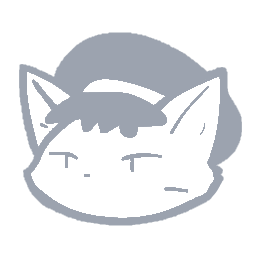
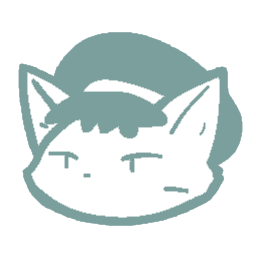
Сохранение настроек и доработки юзабилити

Changed region(s): [[0.0625, 0.125, 0.9688, 0.9062], [0.4688, 0.5938, 0.6562, 0.6875], [0.3125, 0.6562, 0.375, 0.7188]]

diff --git a/src/ru/ui/console.html b/src/ru/ui/console.html
@@ -17,7 +17,7 @@
 
   <div class="flex md:hidden bg-white p-4 shadow-md items-center justify-between">
     <h1 class="text-xl font-bold">Melezh</h1>
-    <button @click="toggleSidebar()" class="text-gray-600">
+    <button @click="toggleSidebar()" class="text-gray-700">
       ☰
     </button>
   </div>
@@ -27,11 +27,13 @@
       class="md:flex flex-col w-64 bg-white shadow-md p-4 space-y-4 transition-all z-10 fixed md:static inset-y-0 left-0 transform md:translate-x-0 transition-transform duration-200 ease-in-out"
       :class="{'translate-x-0': isSidebarOpen, '-translate-x-full': !isSidebarOpen && isMobile()}">
 
+      <!-- Заголовок -->
       <h1 class="flex items-center justify-between text-lg font-semibold border-b pb-2 w-full">
-        <span style="font-size: 25px;">Melezh</span>
+        <span style="font-size: 25px;" >Melezh</span>
         <img src="/img/ico_g.png" alt="Логотип" class="h-8 w-auto">
       </h1>
 
+      <!-- Основная навигация -->
       <nav class="space-y-2">
         <a href="#dashboard" @click.prevent="setActiveTab('dashboard')"
           :class="{'bg-green-100 text-white-700': activeTab === 'dashboard'}"
@@ -50,8 +52,11 @@
         </a>
       </nav>
 
-      <!-- Sidebar Footer -->
-      <div class="mt-auto pt-6 border-t space-y-2">
+      <!-- Гибкий промежуток, который займет все доступное пространство -->
+      <div class="flex-grow"></div>
+
+      <!-- Кнопка выхода -->
+      <div class="pt-6 border-t space-y-2">
         <button @click="logout()" type="button"
           class="flex items-center justify-between w-full bg-gray-100 hover:bg-gray-200 px-3 py-2 rounded transition">
           <span>Выход</span>
@@ -60,6 +65,38 @@
               d="M17 16l4-4m0 0l-4-4m4 4H7m6 4v1a3 3 0 01-3 3H6a3 3 0 01-3-3V7a3 3 0 013-3h4a3 3 0 013 3v1" />
           </svg>
         </button>
+      </div>
+
+      <!-- Ссылки на GitHub и документацию (теперь всегда внизу) -->
+      <div class="pt-4 flex justify-center space-x-2 border-t">
+        <!-- GitHub -->
+        <a href="https://github.com/bayselonarrend/Melezh" target="_blank" title="Посетить репозиторий на GitHub"
+          class="group flex flex-col items-center justify-center p-3 rounded-md hover:bg-gray-100 transition relative">
+          <svg xmlns="http://www.w3.org/2000/svg" fill="currentColor" viewBox="0 0 24 24"
+            class="w-6 h-6 text-gray-500 group-hover:text-gray-700 transition">
+            <path fill-rule="evenodd"
+              d="M12 2C6.477 2 2 6.484 2 12.017c0 4.425 2.865 8.18 6.839 9.504.5.092.682-.217.682-.483 0-.237-.008-.868-.013-1.703-2.782.605-3.369-1.343-3.369-1.343-.454-1.158-1.11-1.466-1.11-1.466-.908-.62.069-.608.069-.608 1.003.07 1.531 1.032 1.531 1.032.892 1.53 2.341 1.088 2.91.832.092-.647.35-1.088.636-1.338-2.22-.253-4.555-1.113-4.555-4.951 0-1.093.39-1.988 1.029-2.688-.103-.253-.446-1.272.098-2.65 0 0 .84-.27 2.75 1.026A9.564 9.564 0 0112 6.844c.85.004 1.705.115 2.504.337 1.909-1.296 2.747-1.027 2.747-1.027.546 1.379.202 2.398.1 2.651.64.7 1.028 1.595 1.028 2.688 0 3.848-2.339 4.695-4.566 4.943.359.309.678.92.678 1.855 0 1.338-.012 2.419-.012 2.747 0 .268.18.58.688.482A10.019 10.019 0 0022 12.017C22 6.484 17.522 2 12 2z"
+              clip-rule="evenodd" />
+          </svg>
+          <span
+            class="absolute bottom-full mb-1 hidden group-hover:block bg-black text-white text-xs py-1 px-2 rounded whitespace-nowrap">
+            GitHub
+          </span>
+        </a>
+
+        <!-- Документация -->
+        <a href="https://openintegrations.dev" target="_blank" title="Читать документацию"
+          class="group flex flex-col items-center justify-center p-3 rounded-md hover:bg-gray-100 transition relative">
+          <svg xmlns="http://www.w3.org/2000/svg" fill="none" viewBox="0 0 24 24" stroke-width="1.5"
+            stroke="currentColor" class="w-6 h-6 text-gray-500 group-hover:text-gray-700 transition">
+            <path stroke-linecap="round" stroke-linejoin="round"
+              d="M12 6.042A8.967 8.967 0 0 0 6 3.75c-1.052 0-2.062.18-3 .512v14.25A8.987 8.987 0 0 1 6 18c2.305 0 4.408.867 6 2.292m0-14.25a8.966 8.966 0 0 1 6-2.292c1.052 0 2.062.18 3 .512v14.25A8.987 8.987 0 0 0 18 18a8.967 8.967 0 0 0-6 2.292m0-14.25v14.25" />
+          </svg>
+          <span
+            class="absolute bottom-full mb-1 hidden group-hover:block bg-black text-white text-xs py-1 px-2 rounded">
+            Документация
+          </span>
+        </a>
       </div>
     </aside>
 
@@ -94,7 +131,7 @@
         style="word-break: break-word;">
 
         <!-- Контент -->
-        <div class="px-3 py-2 text-sm text-gray-700 whitespace-normal break-words flex flex-col">
+        <div class="px-3 py-2 text-sm text-gray-700 whitespace-normal break-words flex flex-col mr-5">
           <span x-text="message.text"></span>
           <span class="text-xs text-gray-400 mt-1" x-text="message.time"></span>
         </div>

diff --git a/src/ru/ui/login.html b/src/ru/ui/login.html
@@ -1,55 +1,68 @@
 <!DOCTYPE html>
-<html lang="ru" x-data="{ password: '', error: false }">
+<html lang="ru" x-data="app()">
 
 <head>
   <meta charset="UTF-8" />
   <meta name="viewport" content="width=device-width, initial-scale=1.0" />
-  <title>Вход | Melezh </title>
+  <title>Вход | Melezh</title>
   <link rel="stylesheet" href="/css/custom-tailwind.css" />
   <script src="/js/tailwind.js"></script>
+  <script type="module" src="/js/error-fetch.js"></script>
+  <script type="module" src="/js/components/app.js"></script>
+  <script type="module" src="/js/components/views-registry.js"></script>
+  <script type="module" src="/js/components/message-toast.js"></script>
   <script type="module" src="/js/alpine.js"></script>
-
 </head>
 
-<body class="bg-gray-100 flex items-center justify-center min-h-screen" x-init="
-  () => {
-    const urlParams = new URLSearchParams(window.location.search);
-    error = urlParams.has('error');
-  }
-">
-
+<body class="bg-gray-100 flex items-center justify-center min-h-screen">
   <div class="w-full max-w-md bg-white shadow-lg rounded-lg p-8 space-y-6">
-
     <!-- Логотип + заголовок -->
     <div class="flex flex-col items-center text-center space-y-4">
-      <img src="/img/cover.png" alt="Логотип" class="h-20 w-auto" />
+      <img src="/img/cover_g.png" alt="Логотип" class="h-21 w-auto" />
       <h2 class="text-2xl font-bold text-gray-800">Вход в панель управления</h2>
     </div>
 
-    <!-- Сообщение об ошибке -->
-    <template x-if="error">
-      <div class="bg-red-100 border border-red-400 text-red-700 px-4 py-3 rounded relative" role="alert">
-        <span class="block sm:inline">Неверный пароль</span>
-      </div>
-    </template>
-
     <!-- Форма -->
-    <form action="/ui/login" method="POST" class="space-y-4">
+    <form action="/ui/login" method="POST" class="space-y-4" @submit.prevent="handleLoginSubmit">
       <div>
         <label for="password" class="block text-sm font-medium text-gray-700 mb-1">Пароль</label>
-        <input id="password" name="password" type="password" x-model="password" required
+        <input id="password" name="password" type="password" x-model="loginPassword" required
           class="w-full px-4 py-2 border border-gray-300 rounded-md focus:outline-none focus:ring-2 focus:ring-green-500"
           placeholder="Введите пароль" />
       </div>
 
       <button type="submit"
-        class="w-full bg-green-600 hover:bg-green-700 text-white font-semibold py-2 px-4 rounded-md transition duration-200"
-        :disabled="password === ''" :class="{ 'opacity-70 cursor-not-allowed': password === '' }">
-        Войти
+        class="w-full bg-green-600 hover:bg-green-700 text-white font-semibold py-2 px-4 rounded-md transition duration-200 flex items-center justify-center"
+        :disabled="!loginPassword || isLoading"
+        :class="{ 'opacity-70 cursor-not-allowed': !loginPassword || isLoading }">
+        <span x-show="!isLoading">Войти</span>
+        <svg x-show="isLoading" class="animate-spin -ml-1 mr-3 h-5 w-5 text-white" xmlns="http://www.w3.org/2000/svg" fill="none" viewBox="0 0 24 24">
+          <circle class="opacity-25" cx="12" cy="12" r="10" stroke="currentColor" stroke-width="4"></circle>
+          <path class="opacity-75" fill="currentColor" d="M4 12a8 8 0 018-8V0C5.373 0 0 5.373 0 12h4zm2 5.291A7.962 7.962 0 014 12H0c0 3.042 1.135 5.824 3 7.938l3-2.647z"></path>
+        </svg>
       </button>
     </form>
   </div>
 
+  <!-- Блок уведомлений -->
+  <div x-data="errorToast()" x-show="messages.length > 0" class="fixed bottom-4 right-4 z-50 w-80 max-w-full space-y-2">
+    <template x-for="message in messages" :key="message.id">
+      <div :class="{
+        'bg-red-50 border-l-4 border-red-500': message.type === 'error',
+        'bg-green-50 border-l-4 border-green-500': message.type === 'success'
+      }"
+        class="relative flex items-center border-l-4 shadow-md rounded-md mb-2 overflow-hidden break-words animate-fade-in"
+        style="word-break: break-word;">
+        <div class="px-3 py-2 text-sm text-gray-700 whitespace-normal break-words flex flex-col mr-5">
+          <span x-text="message.text"></span>
+          <span class="text-xs text-gray-400 mt-1" x-text="message.time"></span>
+        </div>
+        <button @click="remove(message.id)" type="button"
+          class="absolute top-1 right-1 p-1 text-gray-400 hover:text-gray-600 transition">
+          ✕
+        </button>
+      </div>
+    </template>
+  </div>
 </body>
-
 </html>

diff --git a/src/ru/ui/static/views/handlers.html b/src/ru/ui/static/views/handlers.html
@@ -79,21 +79,39 @@
             </td>
 
             <!-- Кнопка редактирования -->
-            <td class="py-1 px-4">
-              <button @click="editHandler(handler)" class="text-grey-500 hover:text-grey-700 transition">
-                <svg xmlns="http://www.w3.org/2000/svg" fill="none" viewBox="0 0 24 24" stroke-width="1.5"
-                  stroke="currentColor" class="w-5 h-5">
-                  <path stroke-linecap="round" stroke-linejoin="round"
-                    d="m16.862 4.487 1.687-1.688a1.875 1.875 0 1 1 2.652 2.652L10.582 16.07a4.5 4.5 0 0 1-1.897 1.13L6 18l.8-2.685a4.5 4.5 0 0 1 1.13-1.897l8.932-8.931Zm0 0L19.5 7.125M18 14v4.75A2.25 2.25 0 0 1 15.75 21H5.25A2.25 2.25 0 0 1 3 18.75V8.25A2.25 2.25 0 0 1 5.25 6H10" />
-                </svg>
-              </button>
+            <td class="py-1 px-1">
+              <div class="flex items-center gap-1">
+                <!-- Кнопка редактирования -->
+                <div class="relative group">
+                  <button @click="editHandler(handler)"
+                    class="text-gray-500 hover:text-gray-700 transition p-1 rounded hover:bg-gray-100">
+                    <svg xmlns="http://www.w3.org/2000/svg" fill="none" viewBox="0 0 24 24" stroke-width="1.5"
+                      stroke="currentColor" class="w-5 h-5">
+                      <path stroke-linecap="round" stroke-linejoin="round"
+                        d="m16.862 4.487 1.687-1.688a1.875 1.875 0 1 1 2.652 2.652L10.582 16.07a4.5 4.5 0 0 1-1.897 1.13L6 18l.8-2.685a4.5 4.5 0 0 1 1.13-1.897l8.932-8.931Zm0 0L19.5 7.125M18 14v4.75A2.25 2.25 0 0 1 15.75 21H5.25A2.25 2.25 0 0 1 3 18.75V8.25A2.25 2.25 0 0 1 5.25 6H10" />
+                    </svg>
+                  </button>
+                  <span
+                    class="absolute bottom-full left-1/2 -translate-x-1/2 mb-1 hidden group-hover:block bg-black text-white text-xs py-1 px-2 rounded whitespace-nowrap">
+                    Редактировать
+                  </span>
+                </div>
 
-              <button @click="deleteHandler(handler)" type="button" class="text-red-500 hover:text-red-700 transition">
-                <svg xmlns="http://www.w3.org/2000/svg" fill="none" viewBox="0 0 24 24" stroke-width="1.5"
-                  stroke="currentColor" class="w-5 h-5">
-                  <path stroke-linecap="round" stroke-linejoin="round" d="M6 18L18 6M6 6l12 12" />
-                </svg>
-              </button>
+                <!-- Кнопка удаления -->
+                <div class="relative group">
+                  <button @click="deleteHandler(handler)" type="button"
+                    class="text-red-500 hover:text-red-700 transition p-1 rounded hover:bg-gray-100">
+                    <svg xmlns="http://www.w3.org/2000/svg" fill="none" viewBox="0 0 24 24" stroke-width="1.5"
+                      stroke="currentColor" class="w-5 h-5">
+                      <path stroke-linecap="round" stroke-linejoin="round" d="M6 18L18 6M6 6l12 12" />
+                    </svg>
+                  </button>
+                  <span
+                    class="absolute bottom-full left-1/2 -translate-x-1/2 mb-1 hidden group-hover:block bg-black text-white text-xs py-1 px-2 rounded whitespace-nowrap">
+                    Удалить
+                  </span>
+                </div>
+              </div>
             </td>
 
           </tr>
@@ -102,8 +120,7 @@
     </table>
   </div>
 
-  <div x-show="!isLoading && handlers.length === 0"
-    class="bg-green-100  text-green-700 p-4">
+  <div x-show="!isLoading && handlers.length === 0" class="bg-green-500  text-neutral-100 p-4">
     <p><b>Нет доступных обработчиков.</b> Вы можете создать новый обработчик, нажав значок "+" в правом верхнем углу</p>
   </div>
 </div>

diff --git a/src/ru/ui/static/views/handler-form.html b/src/ru/ui/static/views/handler-form.html
@@ -78,7 +78,7 @@
         <div>
           <label for="library" class="block text-sm font-medium text-gray-700">Библиотека</label>
           <div x-show="isLibrariesLoading" class="mt-1">Загрузка...</div>
-          <select id="library" x-model="formData.library" :disabled="isLibrariesLoading || isLoading"
+          <select id="library" x-model="formData.library" :disabled="isLibrariesLoading || isLoading" required
             class="mt-1 block w-full px-3 py-2 border border-gray-300 rounded-md shadow-sm focus:outline-none focus:ring-green-500 focus:border-green-500 bg-white"
             @change="onLibraryChange(formData.library)">
             <option value="">Выберите библиотеку</option>
@@ -92,7 +92,7 @@
         <div>
           <label for="function" class="block text-sm font-medium text-gray-700">Функция</label>
           <div x-show="isFunctionsLoading" class="mt-1">Загрузка...</div>
-          <select id="function" x-model="formData.function" :disabled="!formData.library || isFunctionsLoading"
+          <select id="function" x-model="formData.function" :disabled="!formData.library || isFunctionsLoading" required
             @change="onFunctionChange(formData.function)"
             class="mt-1 block w-full px-3 py-2 border border-gray-300 rounded-md shadow-sm focus:outline-none focus:ring-green-500 focus:border-green-500 bg-white"
             :class="{ 'bg-gray-100 cursor-not-allowed': !formData.library || isFunctionsLoading }">

diff --git a/src/ru/ui/static/js/components/app.js b/src/ru/ui/static/js/components/app.js
@@ -19,6 +19,8 @@ document.addEventListener('alpine:init', () => {
     currentView: '',
     isLoading: false,
     loadingMessage: 'Загрузка...',
+    loginPassword: '',
+    loginError: false,
 
     init() {
       this.checkViewport();
@@ -62,6 +64,38 @@ document.addEventListener('alpine:init', () => {
       }
     },
 
+async handleLoginSubmit() {
+      this.isLoading = true;
+      
+      try {
+        const response = await fetch('/ui/login', {
+          method: 'POST',
+          headers: {
+            'Content-Type': 'application/x-www-form-urlencoded',
+          },
+          body: new URLSearchParams({
+            password: this.loginPassword
+          })
+        });
+
+        const result = await handleFetchResponse(response);
+
+        if (result.success) {
+          window.location.href = '/ui';
+        } else {
+          window.dispatchEvent(new CustomEvent('show-error', {
+            detail: { message: result.message || 'Неверный пароль' }
+          }));
+        }
+      } catch (error) {
+        window.dispatchEvent(new CustomEvent('show-error', {
+          detail: { message: 'Ошибка сети. Попробуйте позже.' }
+        }));
+      } finally {
+        this.isLoading = false;
+      }
+    },
+    
     toggleSidebar() {
       this.isSidebarOpen = !this.isSidebarOpen;
     },

diff --git a/src/ru/ui/static/js/components/handler-form-view.js b/src/ru/ui/static/js/components/handler-form-view.js
@@ -121,6 +121,34 @@ export const handlerFormView = () => ({
   },
 
   async submitForm() {
+
+    if (!this.formData.key.trim()) {
+      window.dispatchEvent(new CustomEvent('show-error', {
+        detail: { message: 'Поле "Ключ" обязательно для заполнения' }
+      }));
+      return;
+    }
+
+    if (!this.formData.method) {
+      window.dispatchEvent(new CustomEvent('show-error', {
+        detail: { message: 'Поле "Метод" обязательно для заполнения' }
+      }));
+      return;
+    }
+
+    if (!this.formData.library) {
+      window.dispatchEvent(new CustomEvent('show-error', {
+        detail: { message: 'Поле "Библиотека" обязательно для заполнения' }
+      }));
+      return;
+    }
+
+    if (!this.formData.function) {
+      window.dispatchEvent(new CustomEvent('show-error', {
+        detail: { message: 'Поле "Функция" обязательно для заполнения' }
+      }));
+      return;
+    }
     this.isLoading = true;
 
     try {

diff --git a/src/ru/ui/static/js/components/settings-view.js b/src/ru/ui/static/js/components/settings-view.js
@@ -56,7 +56,7 @@ export const settingsPage = () => ({
       if (!result.success) throw new Error(result.message);
 
       window.dispatchEvent(new CustomEvent('show-success', {
-        detail: { message: 'Настройки успешно сохранены' }
+        detail: { message: 'Настройки успешно сохранены!' }
       }));
 
     } catch (error) {

diff --git a/src/ru/ui/static/css/custom-tailwind.css b/src/ru/ui/static/css/custom-tailwind.css
@@ -1,11 +1,11 @@
 :root {
-  --green: #002B28;
+  --green: #477a77;
   --green-bright: #477a77;
   --green-light: #acc4c2;
   --green-active: #68a5a1;
 }
 
-.bg-green-600 {
+.bg-green-600,.text-green-500 {
   background-color: var(--green) !important;
 }
 
